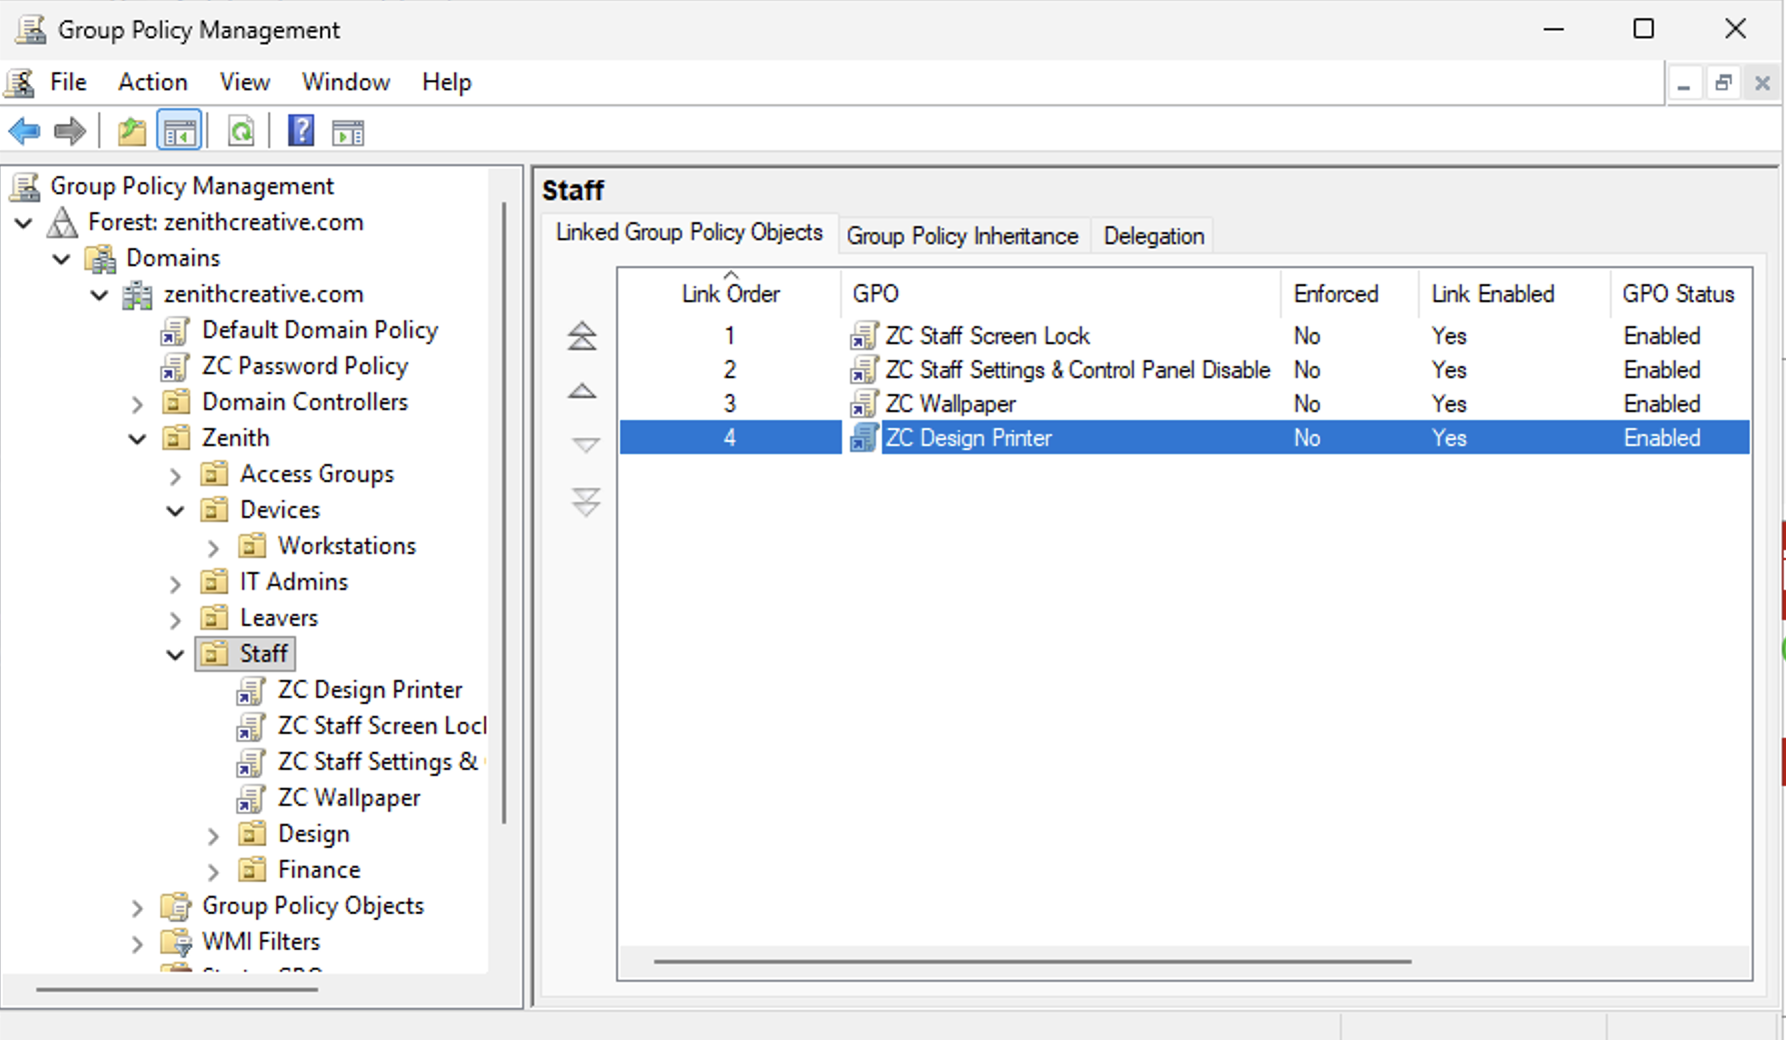
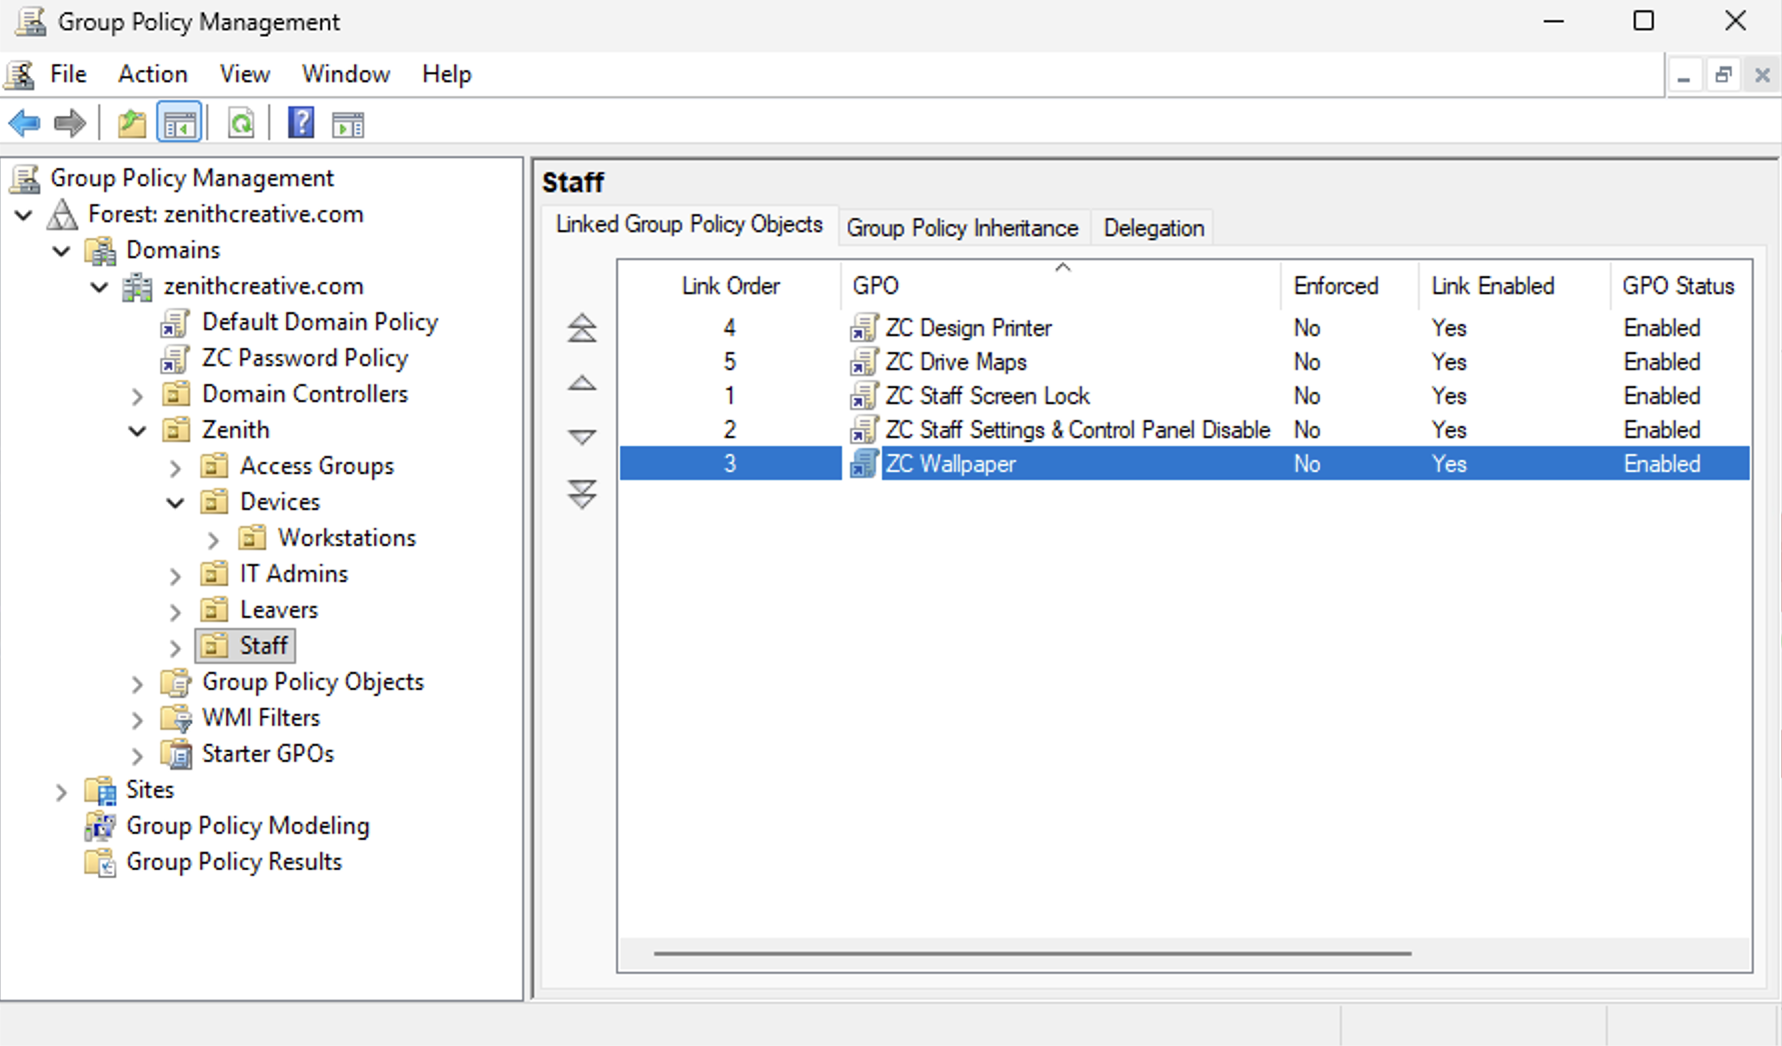
Add missing screenshots and expand ZCDC02 lab walkthrough
- Added printer wizard steps (25a-25g) showing ZCDesignPrinter creation on DC
- Added 26a: GPME Printers right-click New menu before printer properties
- Added 23a: NETLOGON software folder with 7-Zip MSI before GPO linked
- Added 01b: ZCPC01 in Workstations OU confirming domain join
- Added 06b: Leavers OU with Emeka Obi after offboarding script
- Added 29p: Server Manager all shares view before client browsing
- Added 31h: P drive Domain Users targeting, 31i: F drive FinanceFiles targeting
- Replaced 21-wallpaper-staff-linked with correct Staff OU screenshot (01:35:21)
- Reordered software section: 24/24b before 23c, removed 23b
- Added FinanceFiles share repeat note after 29n
- Added drive maps caption noting repeated steps for Finance and Public

Changed region(s): [[0.0, 0.0, 1.0, 0.9846], [0.9877, 0.9538, 1.0, 1.0], [0.8951, 0.0, 0.9259, 0.0308]]

diff --git a/src/data/blog.ts b/src/data/blog.ts
@@ -590,6 +590,13 @@ export const posts: BlogPost[] = [
             alt: "Computer Name/Domain Changes dialog showing ZCPC01 joining zenithcreative.com with the Domain radio button selected",
             caption: "01. ZCPC01 joining zenithcreative.com. Domain radio button selected, domain name entered.",
           },
+          { type: "navpath", content: "ADUC > zenithcreative.com > Zenith > Devices > Workstations" },
+          {
+            type: "img",
+            content: "/images/blog/zcdc02/01b-zcpc01-workstations-ou.png",
+            alt: "Active Directory Users and Computers showing ZCPC01 computer object in the Workstations OU under Zenith",
+            caption: "01b. ZCPC01 appears in the Workstations OU in ADUC confirming the domain join succeeded.",
+          },
           {
             type: "p",
             content:
@@ -700,6 +707,13 @@ export const posts: BlogPost[] = [
           {
             type: "code",
             content: "powershell -ExecutionPolicy Bypass -File .\\Offboard-User.ps1 -SamAccountName emeka.obi -Reason \"Resigned\"",
+          },
+          { type: "navpath", content: "ADUC > zenithcreative.com > Zenith > Leavers" },
+          {
+            type: "img",
+            content: "/images/blog/zcdc02/06b-leavers-ou-emeka.png",
+            alt: "Active Directory Users and Computers showing the Leavers OU containing Emeka Obi with description LEFT 2026-11-02 Resigned",
+            caption: "06b. Leavers OU: Emeka Obi moved here by the script. Description field stamped with leave date and reason.",
           },
           { type: "navpath", content: "ZCDC01 > Windows PowerShell > Offboard-User.ps1" },
           {
@@ -1024,26 +1038,19 @@ export const posts: BlogPost[] = [
           },
           { type: "note", content: "Assigned vs Published: Assigned installs the software automatically at computer startup with no user involvement. Published makes it available for users to install manually from Control Panel but does not push it automatically. For a tool the whole organisation needs, Assigned is the correct choice." },
           { type: "p", content: "I also enabled Always wait for the network at computer startup and logon. Without this, Group Policy runs asynchronously in the background and the login screen can appear before the software installation has finished. Enabling it forces a full synchronous Group Policy cycle to complete — including the software install — before the login screen appears." },
+          { type: "navpath", content: "File Explorer > Network > ZCDC01.zenithcreative.com > NETLOGON > software" },
+          {
+            type: "img",
+            content: "/images/blog/zcdc02/23a-netlogon-software-msi.png",
+            alt: "File Explorer showing the software subfolder inside NETLOGON on ZCDC01 containing 7z2409-x64.msi at 1941 KB",
+            caption: "23a. 7z2409-x64.msi placed in NETLOGON\\software. All workstations can reach this path at startup.",
+          },
           { type: "navpath", content: "GPM > zenithcreative.com > Workstations > Linked Group Policy Objects" },
           {
             type: "img",
             content: "/images/blog/zcdc02/23-7zip-gpo-linked.png",
             alt: "Group Policy Management showing Workstations OU with ZC Block USB, ZC Branding Assets, and ZC 7zip Software Installer GPOs linked",
             caption: "23. ZC 7zip Software Installer linked to the Workstations OU.",
-          },
-          { type: "navpath", content: "GPME > ZC 7zip Software Installer > Computer Configuration > Administrative Templates > System > Logon > Always wait for the network" },
-          {
-            type: "img",
-            content: "/images/blog/zcdc02/23b-always-wait-network.png",
-            alt: "Group Policy Management Editor policy setting dialog for Always wait for the network at computer startup and logon showing Enabled selected",
-            caption: "23b. Always wait for the network at startup and logon: Enabled. Forces synchronous Group Policy before the login screen.",
-          },
-          { type: "navpath", content: "GPME > ZC 7zip Software Installer > Computer Configuration > Administrative Templates > System > Logon" },
-          {
-            type: "img",
-            content: "/images/blog/zcdc02/23c-logon-wait-network.png",
-            alt: "Group Policy Management Editor Logon settings list showing Always wait for the network at computer startup and logon highlighted as Enabled",
-            caption: "23c. The policy confirmed Enabled in the Logon settings list.",
           },
           { type: "navpath", content: "GPME > ZC 7zip Software Installer > Computer Configuration > Software Settings > Software Installation" },
           {
@@ -1058,6 +1065,13 @@ export const posts: BlogPost[] = [
             content: "/images/blog/zcdc02/24b-7zip-deployment-properties.png",
             alt: "7-Zip 24.09 x64 edition Properties dialog showing Deployment type set to Assigned",
             caption: "24b. 7-Zip deployment properties: type set to Assigned so it installs automatically at startup.",
+          },
+          { type: "navpath", content: "GPME > ZC 7zip Software Installer > Computer Configuration > Administrative Templates > System > Logon" },
+          {
+            type: "img",
+            content: "/images/blog/zcdc02/23c-logon-wait-network.png",
+            alt: "Group Policy Management Editor Logon settings list showing Always wait for the network at computer startup and logon highlighted as Enabled",
+            caption: "23c. The policy confirmed Enabled in the Logon settings list.",
           },
           { type: "navpath", content: "ZCPC01 > Start Menu (after Group Policy refresh)" },
           {
@@ -1074,12 +1088,68 @@ export const posts: BlogPost[] = [
             content:
               "I created ZC Design Printer and linked it to the Staff OU. I added a shared printer pointing to \\\\ZCDC01\\ZCDesignPrinter. On the Common tab I enabled Item-level targeting and added a Security Group condition: the user must be a member of Design Staff. The printer maps only for Design Staff members even though the GPO is linked to the broader Staff OU.",
           },
+          { type: "navpath", content: "ZCDC01 > Settings > Printers & scanners > Add Printer > Find a printer by other options" },
+          {
+            type: "img",
+            content: "/images/blog/zcdc02/25a-add-printer-method.png",
+            alt: "Add Printer wizard showing Find a printer by other options with Add a local printer or network printer with manual settings selected",
+            caption: "25a. Add Printer wizard: selected Add a local printer or network printer with manual settings.",
+          },
+          { type: "navpath", content: "ZCDC01 > Settings > Printers & scanners > Add Printer > Choose a printer port" },
+          {
+            type: "img",
+            content: "/images/blog/zcdc02/25b-add-printer-port.png",
+            alt: "Add Printer wizard Choose a printer port step showing Use an existing port LPT1 selected",
+            caption: "25b. Printer port: Use an existing port, LPT1.",
+          },
+          { type: "navpath", content: "ZCDC01 > Settings > Printers & scanners > Add Printer > Install the printer driver" },
+          {
+            type: "img",
+            content: "/images/blog/zcdc02/25c-add-printer-driver.png",
+            alt: "Add Printer wizard Install the printer driver step showing Generic manufacturer and Generic Text Only driver selected",
+            caption: "25c. Driver: Generic / Text Only. This is a virtual shared printer so no physical driver is needed.",
+          },
+          { type: "navpath", content: "ZCDC01 > Settings > Printers & scanners > Add Printer > Which version of the driver" },
+          {
+            type: "img",
+            content: "/images/blog/zcdc02/25d-add-printer-driver-version.png",
+            alt: "Add Printer wizard asking which driver version to use showing Use the driver that is currently installed recommended selected",
+            caption: "25d. Driver version: use the currently installed driver.",
+          },
+          { type: "navpath", content: "ZCDC01 > Settings > Printers & scanners > Add Printer > Type a printer name" },
+          {
+            type: "img",
+            content: "/images/blog/zcdc02/25e-add-printer-name.png",
+            alt: "Add Printer wizard Type a printer name step with ZCDesignPrinter entered as the printer name",
+            caption: "25e. Printer name set to ZCDesignPrinter.",
+          },
+          { type: "navpath", content: "ZCDC01 > Settings > Printers & scanners > Add Printer > Printer Sharing" },
+          {
+            type: "img",
+            content: "/images/blog/zcdc02/25f-add-printer-sharing.png",
+            alt: "Add Printer wizard Printer Sharing step showing Share this printer selected with share name ZCDesignPrinter",
+            caption: "25f. Printer sharing enabled. Share name ZCDesignPrinter — this is what the GPO UNC path points to.",
+          },
+          { type: "navpath", content: "ZCDC01 > Settings > Printers & scanners > Add Printer > Finish" },
+          {
+            type: "img",
+            content: "/images/blog/zcdc02/25g-add-printer-success.png",
+            alt: "Add Printer wizard success screen showing You've successfully added ZCDesignPrinter",
+            caption: "25g. ZCDesignPrinter created and shared on ZCDC01. The GPO can now reference \\\\ZCDC01\\ZCDesignPrinter.",
+          },
           { type: "navpath", content: "GPM > zenithcreative.com > Staff > Linked Group Policy Objects" },
           {
             type: "img",
             content: "/images/blog/zcdc02/26-design-printer-linked.png",
             alt: "Group Policy Management showing Staff OU with four linked GPOs including ZC Design Printer",
             caption: "26. ZC Design Printer linked to the Staff OU. Item-level targeting scopes it to Design Staff.",
+          },
+          { type: "navpath", content: "GPME > ZC Design Printer > User Configuration > Preferences > Control Panel Settings > Printers" },
+          {
+            type: "img",
+            content: "/images/blog/zcdc02/26a-printers-new-menu.png",
+            alt: "Group Policy Management Editor Printers section showing an empty pane with right-click context menu open and New submenu showing Shared Printer, TCP/IP Printer, and Local Printer options",
+            caption: "26a. Printers section empty. Right-click > New > Shared Printer to add the printer preference.",
           },
           { type: "navpath", content: "GPME > ZC Design Printer > User Configuration > Preferences > Control Panel Settings > Printers > ZCDesignPrinter Properties > General" },
           {
@@ -1275,6 +1345,13 @@ export const posts: BlogPost[] = [
             alt: "Advanced Security Settings for Public share showing Administrators Full Control and Domain Users Read and Execute, both non-inherited",
             caption: "29o. Public share NTFS permissions: Administrators Full Control, Domain Users Read and Execute. Inheritance blocked.",
           },
+          { type: "navpath", content: "Server Manager > File and Storage Services > Shares" },
+          {
+            type: "img",
+            content: "/images/blog/zcdc02/29p-all-shares-listed.png",
+            alt: "Server Manager File and Storage Services Shares view showing six shares on ZCDC01: DesignFiles, FinanceFiles, Public, print dollar, SYSVOL, and NETLOGON",
+            caption: "29p. Server Manager confirms all three custom shares alongside the built-in shares.",
+          },
           { type: "navpath", content: "ZCPC01 > File Explorer > Network > ZCDC01" },
           {
             type: "img",
@@ -1353,6 +1430,20 @@ export const posts: BlogPost[] = [
             content: "/images/blog/zcdc02/31g-targeting-dl-designfiles.png",
             alt: "Targeting Editor showing the user is a member of the security group ZENITH\\DL DesignFiles Modify with the group SID confirmed",
             caption: "31g. Targeting confirmed: S: maps only for members of ZENITH\\DL DesignFiles Modify.",
+          },
+          { type: "navpath", content: "GPME > ZC Drive Maps > Drive Maps > Targeting Editor" },
+          {
+            type: "img",
+            content: "/images/blog/zcdc02/31i-targeting-dl-financefiles.png",
+            alt: "Targeting Editor showing the user is a member of the security group ZENITH\\DL FinanceFiles Modify with the group SID confirmed",
+            caption: "31i. Targeting confirmed: F: maps only for members of ZENITH\\DL FinanceFiles Modify.",
+          },
+          { type: "navpath", content: "GPME > ZC Drive Maps > P: Drive Properties > Common > Targeting Editor" },
+          {
+            type: "img",
+            content: "/images/blog/zcdc02/31h-targeting-domain-users.png",
+            alt: "Targeting Editor showing the user is a member of the security group ZENITH\\Domain Users for the P drive mapping",
+            caption: "31h. P: drive targeting: Domain Users — maps the Public share for everyone on Staff, no group restriction.",
           },
           { type: "navpath", content: "GPME > ZC Drive Maps > User Configuration > Preferences > Windows Settings > Drive Maps" },
           {
